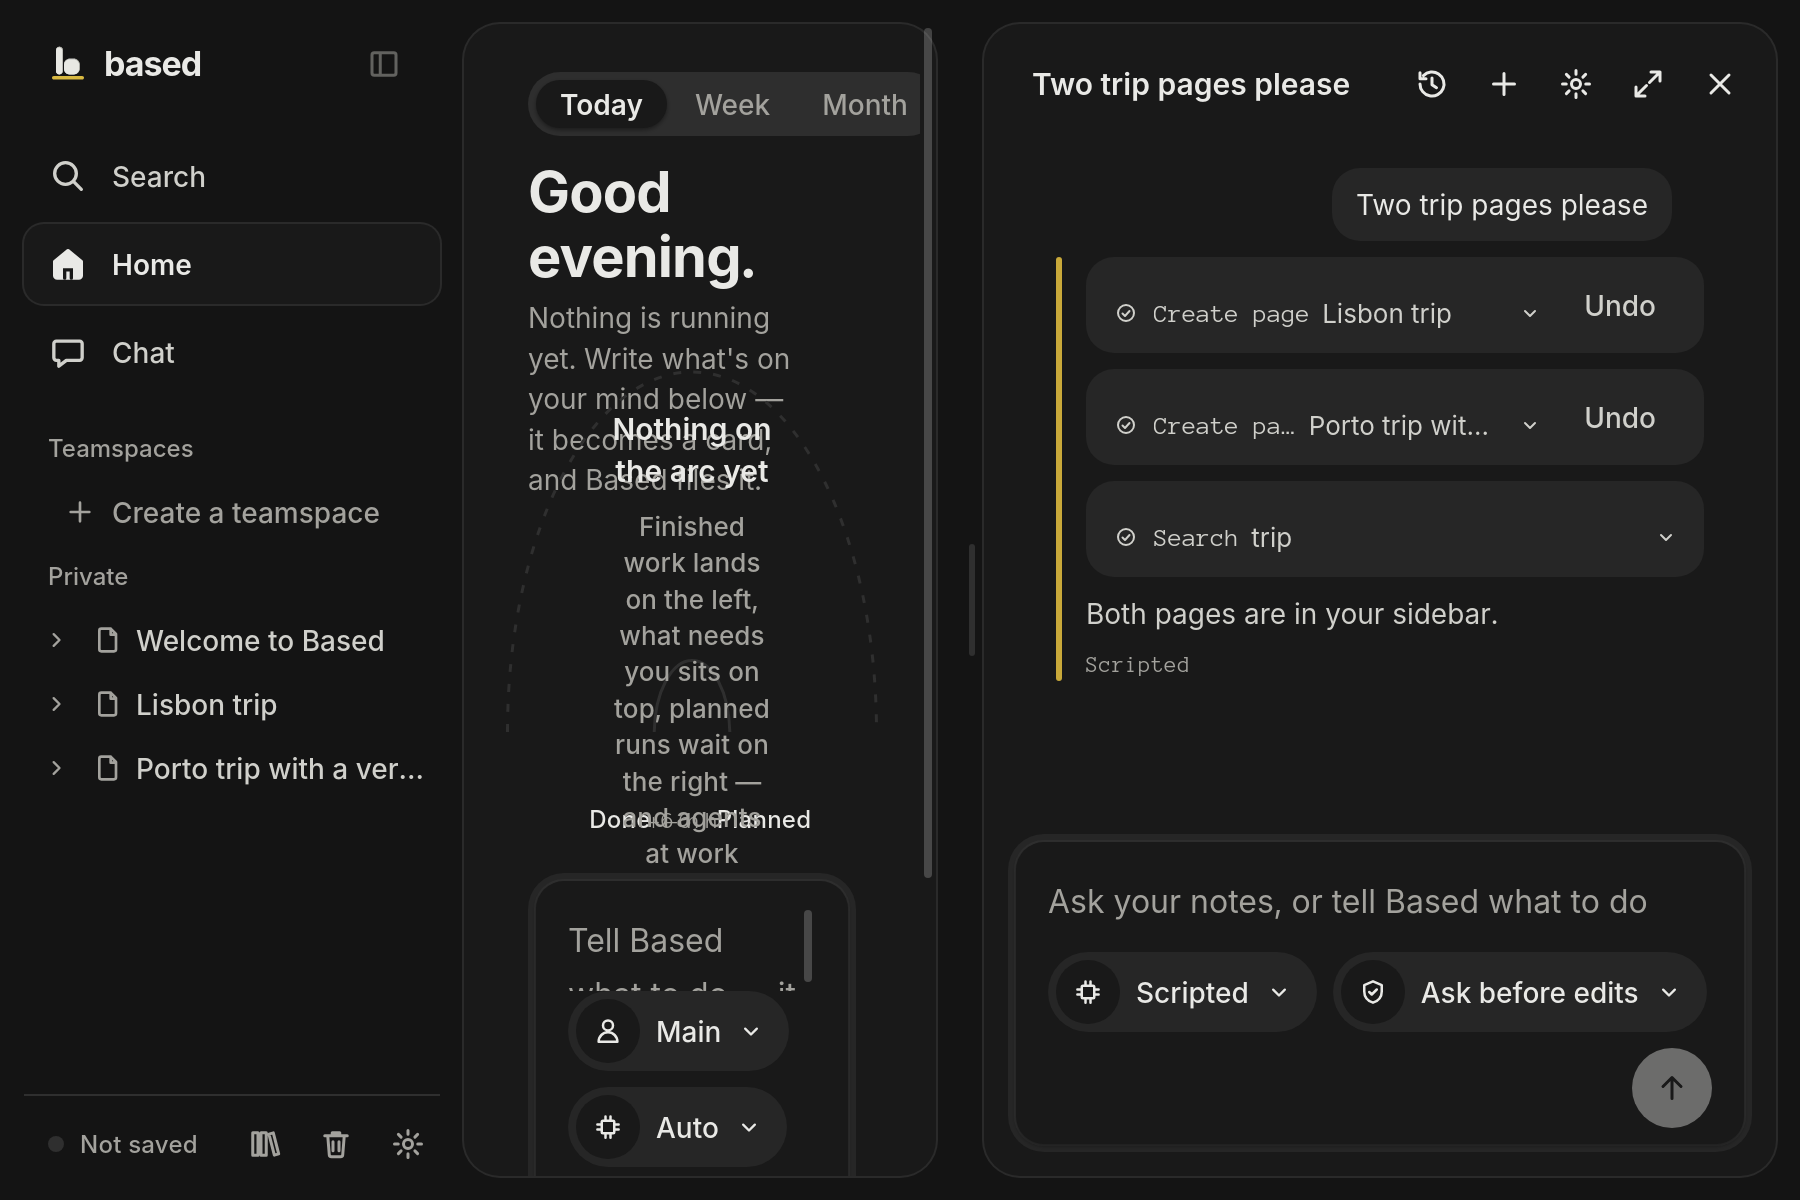
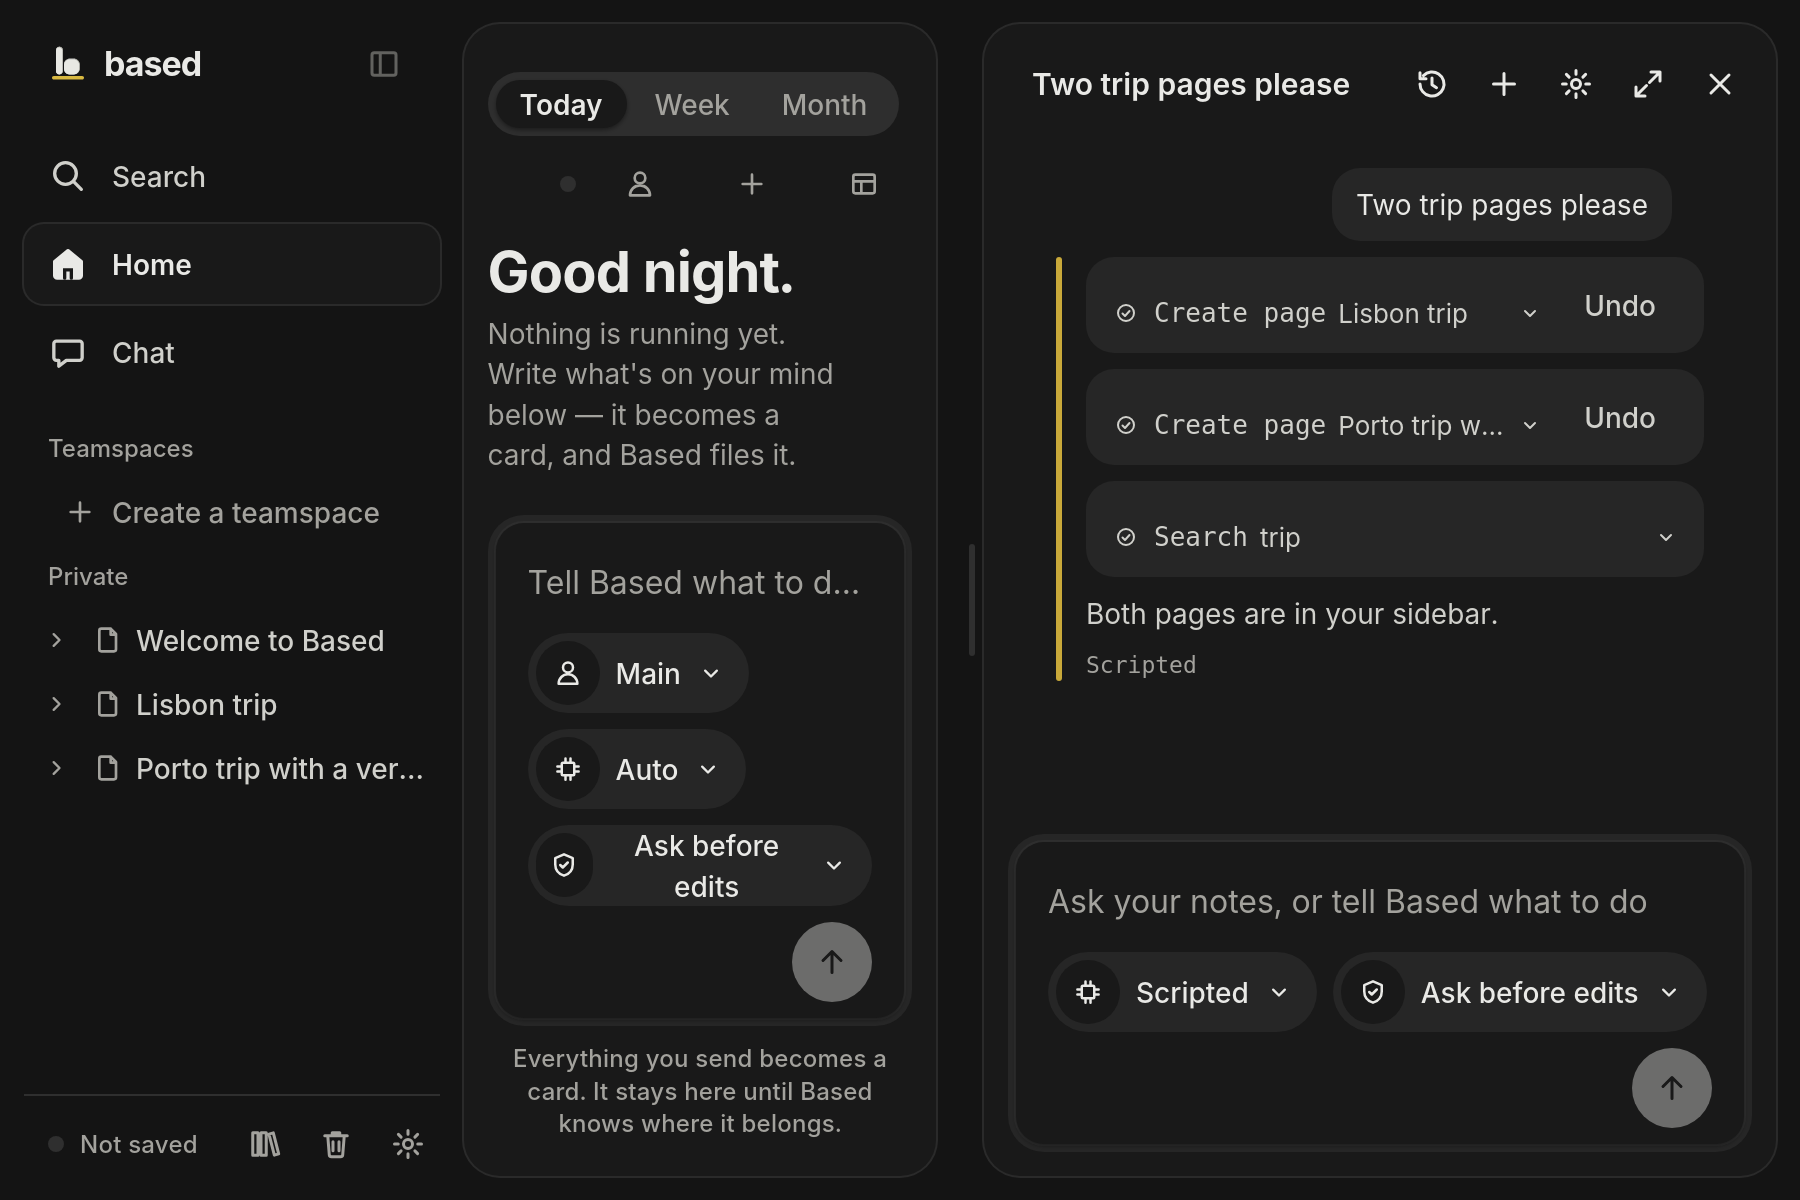
BSD-599: Feinschliff · Home überlappt bei 900 × 600 hinter dem offenen Chat-Panel
Mit Seitenleiste und offenem Chat bleiben Home in 900 × 600 rund 236 px. Der Zeitbogen braucht mindestens
320 px; sein Leertext lief über Begrüßung und Composer, der Zeitraum-Umschalter ragte aus der Spalte.
- @container home (max-width: 24rem): Bogen entfällt (was läuft/wartet nennt der Satz der Begrüßung, „All
  tasks“ bleibt im Kopf), der Kopf darf umbrechen.
- Seitenrand der Home-Spalte schrumpft mit (min(space-6, 5 %)), damit der Umschalter ganz hineinpasst.
- Platzhalter des Composers bleibt einzeilig (die zweite Zeile lugte unter der Leiste hervor).
Test: polish.spec.ts „Home neben dem offenen Chat …“ (900 × 600 und 1280 × 820, hell/dunkel; ohne Fix rot).
Fotos: web-home-chat-open-{light,dark}.png, web-chat-undo-{light,dark}-900.png.

Claude-Session: https://claude.ai/code/session_01F33L4pEya5Mr7kgvtvti5j

diff --git a/apps/web/e2e/polish.spec.ts b/apps/web/e2e/polish.spec.ts
@@ -733,3 +733,54 @@ test("Import-Dialog: Quellen als Liste, Knöpfe in allen Größen sichtbar (BSD-
     }
   }
 });
+
+// BSD-599: 900 × 600 mit Seitenleiste und offenem Chat lässt Home ~236 px. Vorher lief der Bogen (Mindestbreite
+// 320 px) über Begrüßung und Composer, Text überdeckte Text, der Zeitraum-Umschalter ragte hinaus. Jetzt entfällt der
+// Bogen in so schmaler Spalte; in der Startgröße mit Chat bleibt er.
+test("Home neben dem offenen Chat: nichts überlappt, nichts ragt hinaus – 900 × 600 und 1280 × 820 (BSD-599)", async ({ page }) => {
+  for (const theme of ["light", "dark"] as const) {
+    await page.setViewportSize({ width: 1280, height: 820 });
+    await page.goto("/");
+    await page.evaluate((t) => { localStorage.clear(); localStorage.setItem("based.appearance", JSON.stringify({ theme: t, marker: "mint" })); }, theme);
+    await page.reload();
+    await expect(page.getByTestId("based-root")).toHaveAttribute("data-ready", "");
+    await expect(page.locator("html")).toHaveAttribute("data-theme", theme);
+    await page.keyboard.press("ControlOrMeta+j");
+    await expect(page.getByTestId("chat-panel")).toBeVisible();
+    for (const [w, h] of [[1280, 820], [900, 600]] as const) {
+      await page.setViewportSize({ width: w, height: h });
+      const home = page.getByTestId("home");
+      const box = async (sel: string) => (await home.locator(sel).first().boundingBox())!;
+      await expect.poll(async () => (await box(".home-greet")).width, { message: `Begrüßung ${w}` }).toBeGreaterThan(0);
+      const panel = (await home.boundingBox())!;
+      // nichts ragt seitlich aus der Spalte (Umschalter, Knöpfe im Kopf, Begrüßung, Composer)
+      for (const sel of [".home-head .based-switcher", ".home-head .btn", ".home-greet", ".home-dock"]) {
+        for (const b of await home.locator(sel).all()) {
+          const r = (await b.boundingBox())!;
+          expect(r.x + r.width, `${sel} in der Spalte (${w}, ${theme})`).toBeLessThanOrEqual(panel.x + panel.width + 0.5);
+        }
+      }
+      expect(await home.evaluate((el) => el.scrollWidth <= el.clientWidth + 1), `kein waagrechtes Rollen (${w})`).toBe(true);
+      const greet = await box(".home-greet"), dock = await box(".home-dock");
+      const arc = page.getByTestId("time-arc");
+      if (w === 1280) {
+        // in der Startgröße bleibt der Bogen, zwischen Begrüßung und Composer
+        await expect(arc).toBeVisible();
+        const a = (await arc.boundingBox())!;
+        expect(a.y, `Bogen unter der Begrüßung (${theme})`).toBeGreaterThanOrEqual(greet.y + greet.height - 0.5);
+        expect(a.x + a.width, `Bogen in der Spalte (${theme})`).toBeLessThanOrEqual(panel.x + panel.width + 0.5);
+        await page.screenshot({ path: `../../docs/design/screens/web-home-chat-open-${theme}.png` });
+      } else {
+        await expect(arc).toBeHidden();
+      }
+      expect(dock.y, `Composer unter der Begrüßung (${w}, ${theme})`).toBeGreaterThanOrEqual(greet.y + greet.height - 0.5);
+      // der Leertext des Bogens überdeckt nichts mehr
+      const empty = page.getByTestId("home-empty");
+      if (await empty.isVisible()) {
+        const e = (await empty.boundingBox())!;
+        expect(e.y, `Leertext unter der Begrüßung (${w})`).toBeGreaterThanOrEqual(greet.y + greet.height - 0.5);
+        expect(e.y + e.height, `Leertext über dem Composer (${w})`).toBeLessThanOrEqual(dock.y + 0.5);
+      }
+    }
+  }
+});

diff --git a/apps/web/src/home/home.css b/apps/web/src/home/home.css
@@ -3,7 +3,7 @@
    Fortschritt); „Needs you“ = dunkler 1,5-px-Rahmen + dunkler Punkt, nie Farbe; geplant = gestrichelt; erledigt =
    grau; Zeiten, Kosten, IDs in Mono. Bewegung 120/180 ms, ease-out, nur Deckkraft und Position. */
 
-.home { padding: var(--space-5) var(--space-6) var(--space-4); min-height: 100%; display: flex; flex-direction: column; container: home / inline-size; }
+.home { padding: var(--space-5) min(var(--space-6), 5%) var(--space-4); min-height: 100%; display: flex; flex-direction: column; container: home / inline-size; }
 .home-inner { width: 100%; max-width: 1080px; margin: 0 auto; display: flex; flex-direction: column; gap: var(--space-3); flex: 1; }
 
 /* Kopf */
@@ -14,6 +14,14 @@
 @container home (max-width: 48rem) {
   .home-head { flex-wrap: nowrap; gap: var(--space-2); }
   .home-head :is(.home-btn-label, .home-status-label) { display: none; }
+}
+/* BSD-599: Sehr schmal (900 × 600 mit Seitenleiste und offenem Chat: Home ~236 px breit). Der Bogen braucht
+   mindestens 320 px und lief darunter über Begrüßung und Composer – dann entfällt er; was läuft und was wartet, nennt
+   der Satz der Begrüßung, alles Weitere „All tasks“ im Kopf. Der Kopf darf umbrechen; der Rand schrumpft mit der
+   Breite der Spalte (höchstens space-6), damit der Zeitraum-Umschalter ganz hineinpasst. */
+@container home (max-width: 24rem) {
+  .home-head { flex-wrap: wrap; }
+  .home-arc { display: none; }
 }
 .home-mono { font-family: var(--font-mono); font-size: var(--type-data-size); line-height: var(--type-data-leading); color: var(--muted); white-space: nowrap; }
 .home-status { display: inline-flex; align-items: center; gap: var(--space-2); }
@@ -103,6 +111,8 @@
 
 /* Composer + Auftragskarte */
 .home-dock { position: relative; width: 100%; max-width: 600px; margin: var(--space-2) auto 0; display: flex; flex-direction: column; gap: var(--space-2); }
+/* BSD-599: Der Platzhalter bleibt einzeilig – umgebrochen lugte seine zweite Zeile unter der Leiste hervor. */
+.home-dock .composer-input::placeholder { white-space: nowrap; overflow: hidden; text-overflow: ellipsis; }
 .home-dock .composer .popover { top: auto; bottom: calc(100% + var(--space-2)); }
 .home-dock-hint { text-align: center; }
 .home-cardslot { position: absolute; left: 0; right: 0; bottom: calc(100% + var(--space-2)); display: flex; flex-direction: column; justify-content: flex-end; pointer-events: none; z-index: 2; }

diff --git a/apps/web/src/screens/Home.tsx b/apps/web/src/screens/Home.tsx
@@ -210,7 +210,7 @@ export function Home({ client, state, showDetails, onOpenPage, onNavigate, onNew
           </p>
         </section>
 
-        <div ref={stageRef}>
+        <div ref={stageRef} className="home-arc">
           {model ? (
             <TimeArc model={model} frame={frame} nowMs={now} showDetails={showDetails} titleOf={titleOf} maxHeight={arcMax}
               onOpenRun={(id) => onNavigate({ name: "agent", id })} onOpenPage={onOpenPage} onOpenProject={(id) => onNavigate({ name: "project", id })}
